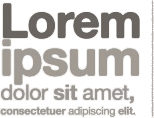
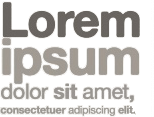
Подключен спрайт

diff --git a/css/style.css b/css/style.css
@@ -35,29 +35,32 @@ a {
 
 @media (max-height: 319px) {
  .start-page {
-   background: url("../img/loremm.png") repeat-y -10% 0,
-               url("../img/loremm.png") repeat-y 110% 0;
-   align-items: flex-end;
+   background: url("../img/lorem.png") repeat-y -10% 0,
+               url("../img/lorem.png") repeat-y 110% 0;
+ }
+
+ .start-intro {
+   justify-content: flex-end;
  }
 }
 
 @media (min-height: 320px) {
  .start-page {
-   background: url("../img/loremm.png") repeat-x 0 110%;
+   background: url("../img/lorem.png") repeat-x 0 110%;
  }
 }
 
 @media (min-height: 421px) {
  .start-page {
-   background: url("../img/loremm.png") repeat-x 0 10px,
-               url("../img/loremm.png") repeat-x 0 100%;
+   background: url("../img/lorem.png") repeat-x 0 10px,
+               url("../img/lorem.png") repeat-x 0 100%;
  }
 }
 
 @media (min-height: 520px) {
  .start-page {
-   background: url("../img/loremm.png") repeat-x 0 50px,
-               url("../img/loremm.png") repeat-x 0 100%;
+   background: url("../img/lorem.png") repeat-x 0 50px,
+               url("../img/lorem.png") repeat-x 0 100%;
  }
 }
 
@@ -367,7 +370,7 @@ form {
 button[type="submit"] {
   width: 100%;
   font-family: 'Open Sans', sans-serif;
-  background-color: #5b5b5b;
+  background-color: #292b3e;
   color: #ffffff;
   border: none;
   cursor: pointer;
@@ -420,7 +423,7 @@ textarea {
 
 footer {
   min-height: 25vh;
-  background-color: #5b5b5b;
+  background-color: #292b3e;
   display: flex;
   justify-content: center;
   color: #ffffff;
@@ -454,7 +457,7 @@ footer {
   height: 32px;
   font-size: 0;
   border-radius: 3px;
-  background-position: 50% 50%;
+  background-image: url("../img/sprite.png");
 }
 
 .social-link:hover {
@@ -466,21 +469,21 @@ footer {
 }
 
 .github {
-  background-image: url("../img/github.png");
+  background-position: -5px -47px;
 }
 
 .facebook {
-  background-image: url("../img/facebook.png");
+  background-position: -5px -5px;
 }
 
 .vkontakte {
-  background-image: url("../img/vk.png");
+  background-position: -5px -173px;
 }
 
 .intouch {
   padding-left: 40px;
   line-height: 32px;
-  background: no-repeat 0 50%;
+  background: url("../img/sprite.png") no-repeat;
   text-align: center;
   margin: 10px 0;
 }
@@ -490,11 +493,11 @@ footer {
 }
 
 .skype {
-  background-image: url("../img/skype.png");
+  background-position: -5px -131px;
 }
 
 .phone {
-  background-image: url("../img/phone.png");
+  background-position: -5px -89px;
 }
 
 @media (min-width: 780px) {

diff --git a/index.html b/index.html
@@ -41,21 +41,21 @@
       <h2 class="caption works-caption">Мои работы</h2>
       <article class="work sedona">
         <a class="project" href="https://nikitinavictoria.github.io/240455-sedona/">
-            <img src="img/sedona.jpg">
+            <img src="img/sedona.jpg" alt="Макет Седона">
             <p class="title">Учебный проект "Седона"</p>
         </a>
         <a class="repo" href="https://github.com/NikitinaVictoria/240455-sedona">Репозиторий на GitHub</a>
       </article>
       <article class="work device">
         <a  class="project" href="https://nikitinavictoria.github.io/240455-device/">
-            <img src="img/device.jpg">
+            <img src="img/device.jpg" alt="Макет Девайс">
             <p class="title">Учебный проект "Девайс"</p>
         </a>
         <a class="repo" href="https://github.com/NikitinaVictoria/240455-device">Репозиторий на GitHub</a>
       </article>
       <article class="work mishka">
         <a class="project" href="https://nikitinavictoria.github.io/240455-mishka/">
-            <img src="img/mishka.jpg">
+            <img src="img/mishka.jpg" alt="Макет Мишка">
             <p class="title">Учебный адаптивный проект "Мишка"</p>
         </a>
         <a class="repo" href="https://github.com/NikitinaVictoria/240455-mishka">Репозиторий на GitHub</a>
